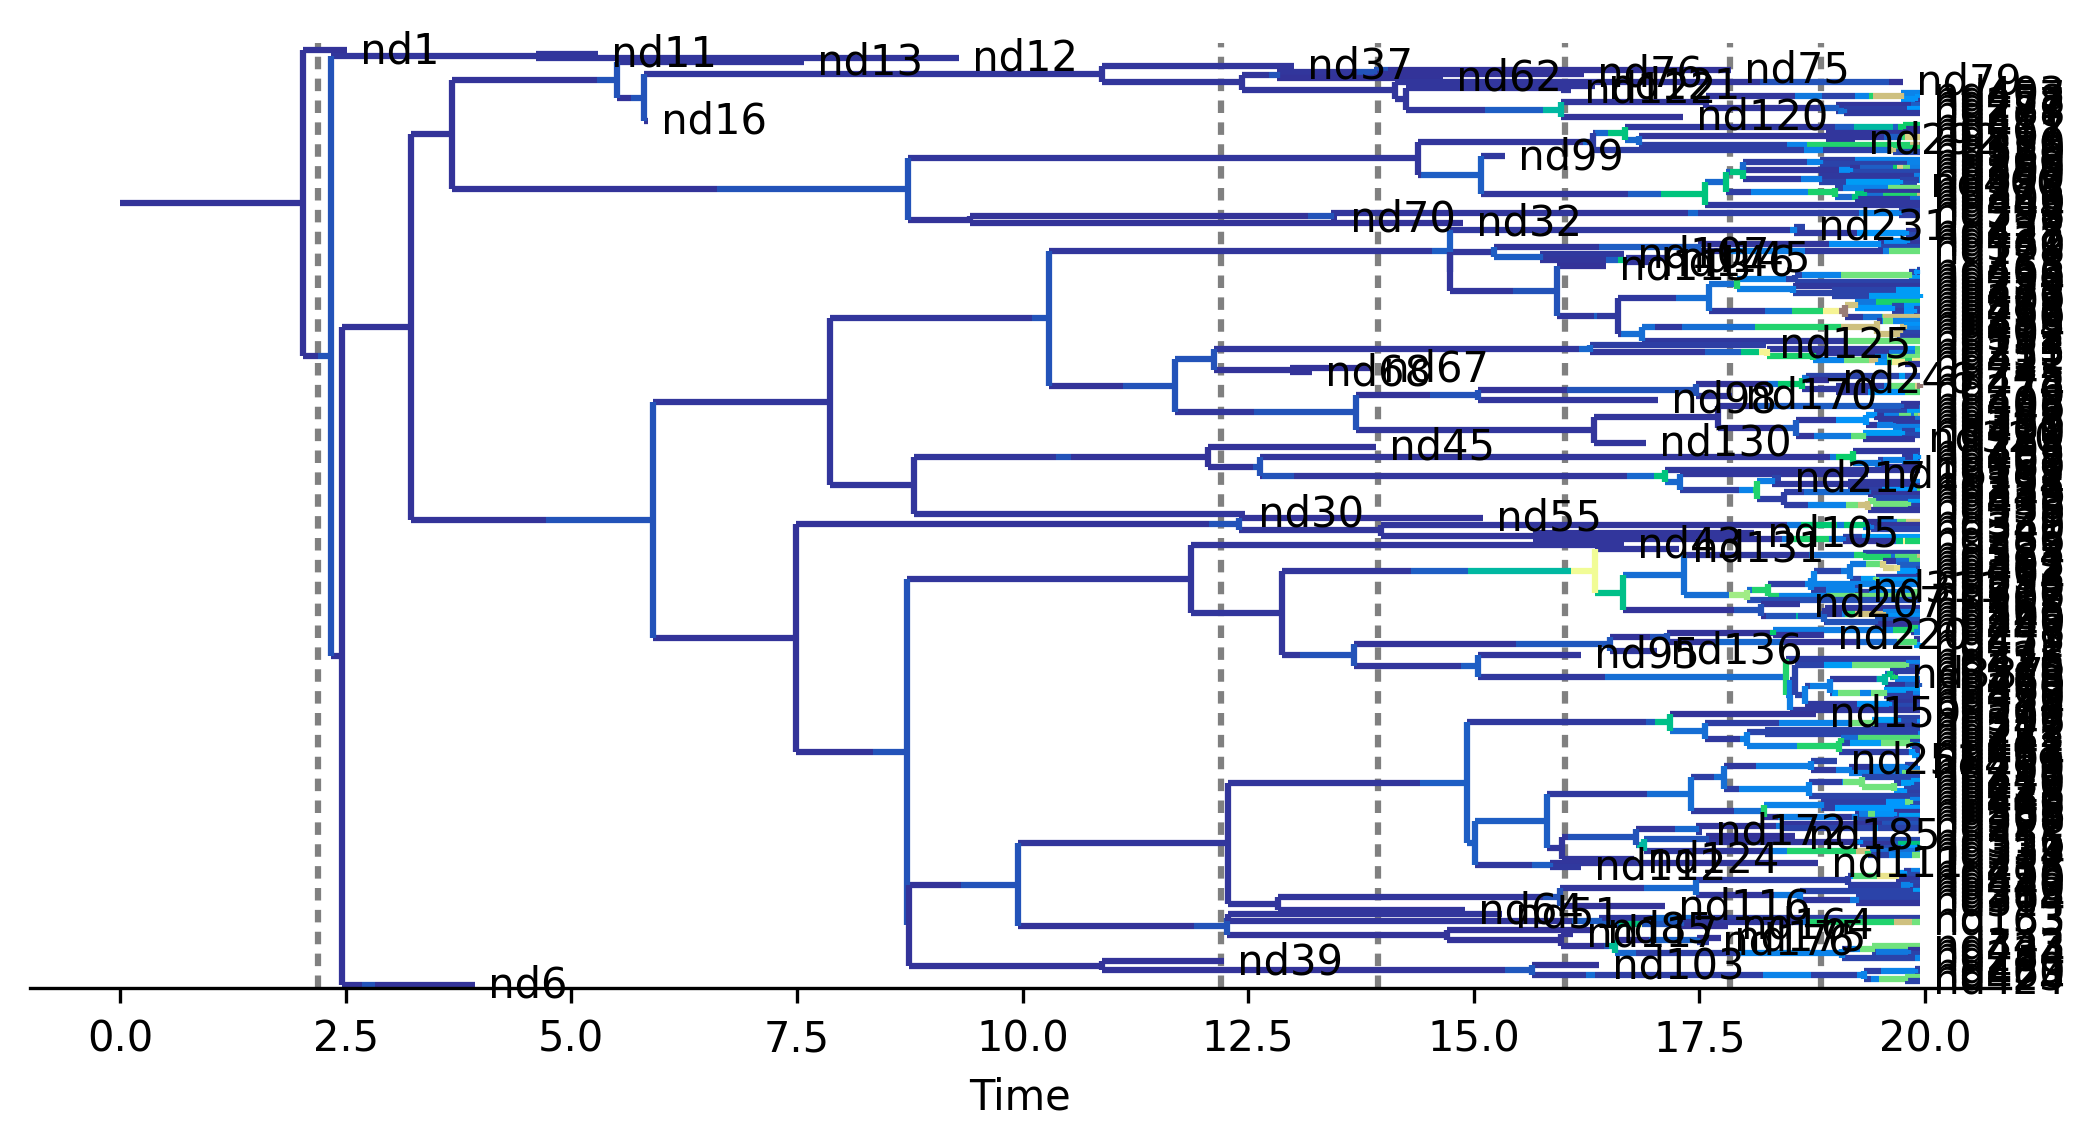
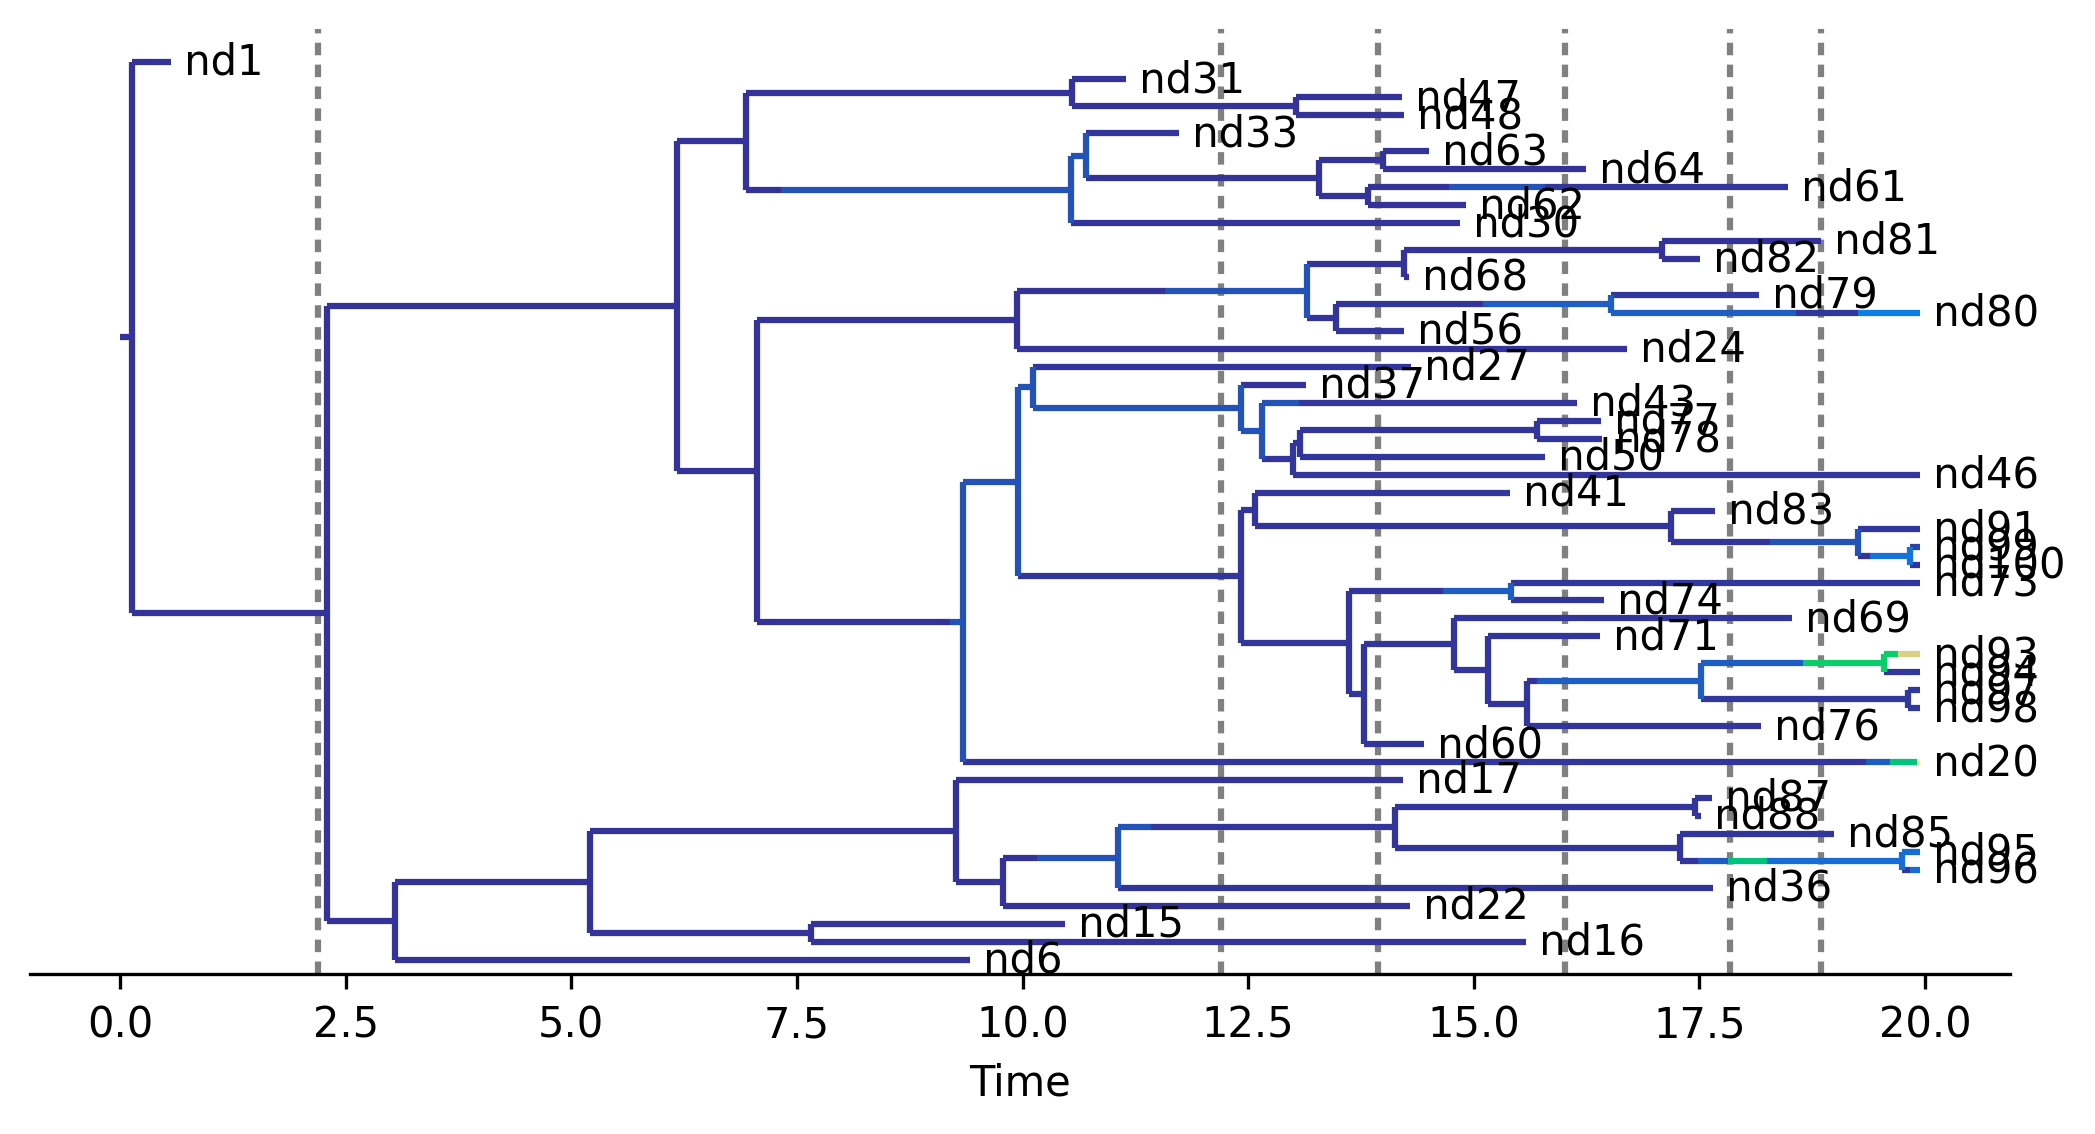
improve plotting script

diff --git a/scripts/graft.py b/scripts/graft.py
@@ -11,69 +11,86 @@ continent_region_idx   = 6
 pj_path                = exp_path + 'pj_output/'
 model_path             = exp_path + 'model_truth/'
 out_path               = exp_path + 'sim_data/'
-phy_fn                 = pj_path + 'sample' + str(idx) + '_trs_complete.tsv'
 tip_fn                 = pj_path + 'sample' + str(idx) + '_trs_sample1_repl1.tsv'
+phy_fn                 = pj_path + 'sample' + str(idx) + '_trs_complete.tsv'
+phy_ann_fn             = pj_path + 'sample' + str(idx) + '_trs_annotated_complete.tsv'
+#tip_ann_fn             = pj_path + 'sample' + str(idx) + '_trs_sample1_repl1.tsv'
 mdl_fn                 = model_path + 'colonization_true_vals_sample' + str(idx) + '.tsv'
+out_prefix             = out_path + 'sample' + str(idx)
+out_ann_prefix         = out_path + 'sample_complete' + str(idx)
 
-# quit if file missing
-phy_exists = os.path.exists(phy_fn)
-mdl_exists = os.path.exists(mdl_fn)
-if not phy_exists:
-    print(f'ERROR: {phy_fn} not found.')
-    quit()
-if not mdl_exists:
-    print(f'ERROR: {mdl_fn} not found.')
-    quit()
+def make_tree(phy_fn, out_prefix, drop_extinct=True):
+    # quit if file missing
+    phy_exists = os.path.exists(phy_fn)
+    mdl_exists = os.path.exists(mdl_fn)
+    if not phy_exists:
+        print(f'ERROR: {phy_fn} not found.')
+        quit()
+    if not mdl_exists:
+        print(f'ERROR: {mdl_fn} not found.')
+        quit()
 
-# get Newick string
-phy_df = pd.read_csv(phy_fn, sep='\t')
-phy_str = phy_df['trs'].iloc[0]
+    # get Newick string
+    phy_df = pd.read_csv(phy_fn, sep='\t')
+    phy_str = phy_df['trs'].iloc[0]
 
-# get col strings
-col_df = pd.read_csv(mdl_fn, sep='\t')
-root_age = float(col_df['tree_age'].iloc[0])
-col_age = float(col_df['colonization_age'].iloc[0])
+    # get col strings
+    col_df = pd.read_csv(mdl_fn, sep='\t')
+    root_age = float(col_df['tree_age'].iloc[0])
+    col_age = float(col_df['colonization_age'].iloc[0])
 
-# read tree
-phy = dp.Tree.get(data=phy_str, schema='newick')
-ingroup_node = phy.seed_node.child_nodes()[0]
-origin_time = float(ingroup_node.edge.length)
-ingroup_branch = root_age - col_age + origin_time
+    # read tree
+    phy = dp.Tree.get(data=phy_str, schema='newick')
+    ingroup_node = phy.seed_node.child_nodes()[0]
+    origin_time = float(ingroup_node.edge.length)
+    ingroup_branch = root_age - col_age + origin_time
 
-print('Collect graft time data')
-print('  root_age = ', root_age, '; col_age = ', col_age, '; ori_time = ', origin_time, '; ingroup_branch = ', ingroup_branch)
+    print('Collect graft time data')
+    print('  root_age = ', root_age, '; col_age = ', col_age, '; ori_time = ', origin_time, '; ingroup_branch = ', ingroup_branch)
 
-# graft outgroup
-ingroup_node.edge.length = ingroup_branch
-outgroup_node = dp.Node()
-outgroup_node.label = 'outgroup'
-outgroup_node.taxon = dp.Taxon(label='outgroup')
-outgroup_node.edge.length = root_age
-phy.seed_node.add_child(outgroup_node)
-print('Graft outgroup to tree')
+    # graft outgroup
+    ingroup_node.edge.length = ingroup_branch
+    outgroup_node = dp.Node()
+    outgroup_node.label = 'outgroup'
+    outgroup_node.taxon = dp.Taxon(label='outgroup')
+    outgroup_node.edge.length = root_age
+    phy.seed_node.add_child(outgroup_node)
+    print('Graft outgroup to tree')
 
-# prune non-extant taxa
-phy.resolve_node_ages()
-tol = 1e-9
-keep_taxa = []
-for nd in phy.leaf_nodes():
-    if nd.age < tol:
-        keep_taxa.append(nd.taxon)
+    # prune non-extant taxa
+    phy.resolve_node_ages()
+    tol = 1e-9
+    keep_taxa = []
+    for nd in phy.leaf_nodes():
+        if nd.age < tol:
+            keep_taxa.append(nd.taxon)
 
-phy.retain_taxa(keep_taxa)
-print('Convert from complete to reconstructed tree')
+    if drop_extinct:
+        phy.retain_taxa(keep_taxa)
+        print('Convert from complete to reconstructed tree')
 
-# update tip data
-df_tip = pd.read_csv(tip_fn, sep='\t', header=None)
-df_tip.loc[df_tip.shape[0]] = ['outgroup', continent_region_idx]
-print('Graft outgroup to states')
+    if drop_extinct:
+        # update tip data
+        df_tip = pd.read_csv(tip_fn, sep='\t', header=None)
+        df_tip.loc[df_tip.shape[0]] = ['outgroup', continent_region_idx]
+    if not drop_extinct:
+        outgroup_node.annotations.add_new('state', str(continent_region_idx))
+        tip_names = [ nd.taxon.label for nd in phy.leaf_nodes() ]
+        tip_states = [ nd.annotations.get_value('state') for nd in phy.leaf_nodes() ]
+        data = { 'name': tip_names, 'state': tip_states }
+        df_tip = pd.DataFrame(data)
+    print('Graft outgroup to states')
 
-# save new tree
-new_phy_fn = out_path + 'sample' + str(idx) + '.tre'
-phy.write(path=new_phy_fn, schema='newick')
-print('Write new tree to file: ', new_phy_fn)
+    # save new tree
+    new_phy_fn = out_prefix + '.tre'
+    phy.write(path=new_phy_fn, schema='newick')
+    print('Write new tree to file: ', new_phy_fn)
 
-# save new tip data
-new_tip_fn = out_path + 'sample' + str(idx) + '.data.tsv'
-df_tip.to_csv(new_tip_fn, index=False, header=False, sep='\t')
-print('Write new states to file: ', new_tip_fn)
+    # save new tip data
+    new_tip_fn = out_prefix + '.data.tsv'
+    df_tip.to_csv(new_tip_fn, index=False, header=False, sep='\t')
+    print('Write new states to file: ', new_tip_fn)
+    return
+
+make_tree(phy_fn, out_prefix, True)
+make_tree(phy_ann_fn, out_ann_prefix, False)
